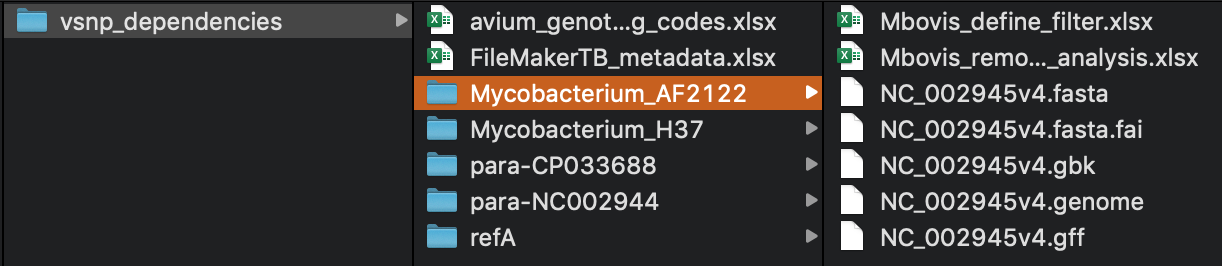
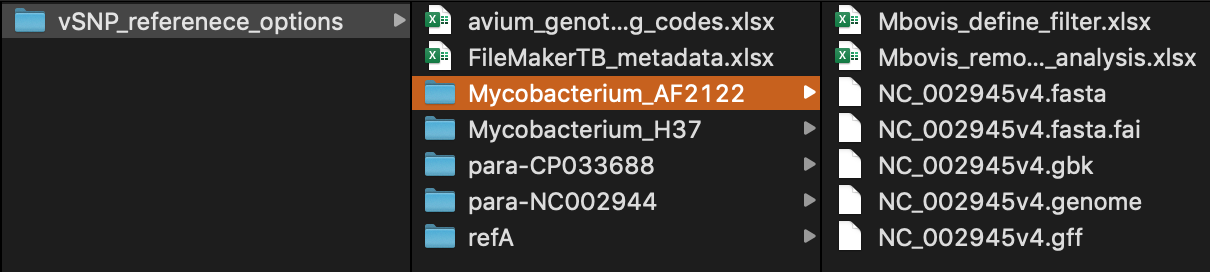
README updates

Changed region(s): [[0.0, 0.0, 1.0, 1.0]]

diff --git a/README.md b/README.md
@@ -2,21 +2,26 @@
 
 ## vSNP -- validate SNPs
 
-### vSNP developed to rapidly call, validate, and compare SNPs from FASTQ files in a timely manner utilizing large data sets.
+### Whole genome sequencing for disease tracing and outbreak investigations is routinely required for high consequence diseases.  vSNP is an accreditation-friendly and robust tool, designed for easy error correction and validation of SNP calls. vSNP rapidly generates annotated SNP tables and corresponding  phylogenetic trees that can be easily sized and scaled for reporting purposes.   It is able to process large scale datasets, and it can easily accommodate multiple references efficiently.
 
 ### Features:
-1. Output VCF file containing SNPs (no indels) and positions containing no coverage.
-2. Ability to group isolates.
-3. Ability to filter positions.
-4. Visualize trees and corresponding SNP calls in spreadsheet.
-5. Ability for run-detail to be provided and optimized by multiple users.
+* Allows for the creation of customized groups by specified SNP position(s).
+* Functionality to filter desired SNP positions by group or for all groups.
+* Two types of output:
+  1. A spreadsheet, or SNP table containing SNP calls sorted in evolutionary order with annotation and genome position information.
+  2. Corresponding phylogenetic trees
+* Ability for run-detail to be provided and optimized by multiple users.
 
-vSNP is a 2-step process.
 
-1. `vSNP_step1.py` takes single or paired FASTQ files and either a FASTA or directory name containing a FASTA (see vsnp_path_adder.py below).  For Mycobacterium tuberculosis complex and Brucella species if no FASTA or directory name is provide a "best reference" is selected.  For each sample step 1 is only ran one time to generate the zc.vcf.  Each time step 1 is ran the VCF file is added to a directory containing all other VCF files ran from past runs on the same reference. (Only VCF files generated from the same reference can be compared together.)
-2. `vSNP_step2.py` builds tables and trees when ran on a directory containing the collection of zc.vcf files output from step 1.  Step 2 is designed to be ran on this complete and growing collection of VCF files, able to handle thousands of VCF files, outputting detailed comparisons in minutes.
+vSNP is a 2-step process for efficiency.
 
-Except for a FASTA file no other dependency file is required to run vSNP, however other files are recommended.  The main, additional dependency file recommended is an Excel file containing defining SNPs and filters.  A template is provided at `dependencies/template_defining_filter.xlsx`.
+1. `vSNP_step1.py` takes single or paired FASTQ files and either a FASTA or directory name containing a FASTA (see vsnp_path_adder.py below) as a reference. For Mycobacterium tuberculosis complex and Brucella species, if no FASTA file or directory name is provided a "best reference" is automatically selected.
+
+
+   NOTE: It is only necessary to process each set of raw data once for each reference.  The VCF file from Step 1 can be saved for future analyses with additional samples with Step 2.  It is recommended to place VCF files generated with a single reference into a directory to compile a dataset for future analyses. Only VCF files generated from the same reference can be compared in Step 2.  See recommended directory structure for step 1 and 2 output below.
+2. `vSNP_step2.py` builds SNP tables and corresponding phylogenetic trees when ran on a directory containing a collection of zc.vcf files output from step 1. Step 2 is able to handle large datasets with thousands of VCF files, outputting detailed comparisons in minutes.
+
+Except for a FASTA file, no other dependency file is required to run vSNP.  However, other files are recommended. The additional dependency file that is most recommended is an Excel file containing defining SNPs and filters. This will allow for the creation of custom groups.  A template is provided at `dependencies/template_defining_filter.xlsx`.
 
 `vsnp_path_adder.py` is used to direct vSNP to a directory containing reference options.
 
@@ -29,7 +34,7 @@ vsnp_path_adder.py -d /full/path/to/vSNP_referenece_options
 ```
 
 ```bash
-vSNP_step1.py -r1 *_R1*gz -r2 *R2*gz -r Mycobacterium_AF2122
+vSNP_step1.py -r1 *_R1*gz -r2 *_R2*gz -r Mycobacterium_AF2122
 ```
 
 It is recommended the path to reference options be placed on shared storage available to both compute resources and subject matter expert.
@@ -40,9 +45,10 @@ For more run detail use `-h` option.
 
 It is expected the setup user is familiar with the command-line and can installed conda.
 
-Follow conda install instructions:<br>
+Follow conda installation instructions:<br>
 https://bioconda.github.io/user/install.html#set-up-channels<br>
-Channel setup is important.<br>
+Be sure to perform channel setup.<br>
+
 
 Do not work in base.  If needed make new environmnet.
 
@@ -50,7 +56,7 @@ Do not work in base.  If needed make new environmnet.
 conda create --name myenv
 ```
 
-Install:
+Installation:
 
 ```bash
 conda install vsnp
@@ -58,9 +64,9 @@ conda install vsnp
 
 Run `vSNP_step1.py -h` to see usage details.
 
-[macOS](./docs/macOS_special_instructions.md) users may need to follow these special instructions for samtools.
+[macOS](./docs/macOS_special_instructions.md) users may need to follow these special instructions for Samtools.
 
-Download and add reference options.  It is recommended options be placed on storage accessible to both compute resources and subject matter expert.
+Download and add reference options.  It is recommended options be placed on storage accessible to both compute resources and subject matter experts analyzing the output data.
 
 ```bash
 git clone https://github.com/USDA-VS/vSNP_reference_options.git
@@ -74,18 +80,19 @@ Download test files:
 git clone https://github.com/USDA-VS/fastq_data_set-tb_complex
 ```
 
-Place each sample in their own directory and on each directory run:
+Place each sample in its own directory, and on each directory run the following command:
 
 ```bash
 vSNP_step1.py -r1 *_R1*gz -r2 *_R2*gz
 ```
 
-See [help](./docs/run_guidance.md) running multiple samples at one time.
+See [help](./docs/run_guidance.md) running multiple samples at once.
 
-cp *zc.vcf output from step 1 into their own directory.<br>
+Copy *zc.vcf output from step 1 into a directory for step 2. Only samples compared to the same reference can be analyzed together in step 2.<br>
+
 Run `vSNP_step2.py` on this directory.
 
-As with reference options, output from step 1 and 2 must be available on storage accessible to subject matter expert.
+As with reference options, it is recommended to place output from step 1 and 2 on storage accessible to subject matter experts analyzing the data.  It may be necessary to use data from all three sources- dependencies, step 1 and step 2 to fully understand the relationships of the data.
 
 Recommended directory structure for step 1 and 2 output:
 

diff --git a/docs/run_guidance.md b/docs/run_guidance.md
@@ -21,7 +21,7 @@ In Bash, one way to get the number of computer cores available is:
 getconf _NPROCESSORS_ONLN
 ```
 
-Dividing this number by 6 can be a good starting point for optimizing resources for vSNP.  For example if 24 cores are available, 24/6=4, set NUM_PER_CYCLE=4
+Dividing this number by 6 can be a good starting point for optimizing resources for `vSNP_step1.py`.  For example if 24 cores are available, 24/6=4, set NUM_PER_CYCLE=4
 
 ```bash
 NUM_PER_CYCLE=4; starting_dir=$(pwd); for dir in ./*/; do (echo "starting: $dir"; cd ./$dir; vSNP_step1.py -r1 *_R1*.fastq.gz -r2 *_R2*.fastq.gz; cd $starting_dir) & let count+=1; [[ $((count%NUM_PER_CYCLE)) -eq 0 ]] && wait; done
@@ -31,7 +31,7 @@ Provide `-r` option to the above if needed.  When no `-r` is used Mycobacterium 
 
 ## HPC
 
-If HPC resources are available talk to your system administrator to utilize multiple nodes.  Some example batch scripts are provided.
+If HPC resources are available talk to your system administrator to utilize multiple nodes.  Example batch scripts are provided.
 
 `vSNP_step1_batch_script.sh` batch script to run a specified number of samples at once.<br>
 `hpc_vSNP_step1_new.sh` script to sort samples into directories and run a batch script on each directory.

diff --git a/docs/macOS_special_instructions.md b/docs/macOS_special_instructions.md
@@ -6,7 +6,7 @@ A new conda install on macOS consistently causes the following error when first 
 
 The fix is found [here](https://github.com/samtools/samtools/issues/974).
 
-In summary... while in your non-base conda env run the following:
+In summary... while in your non-base conda environment run the following:
 
 ```bash
 conda uninstall samtools
